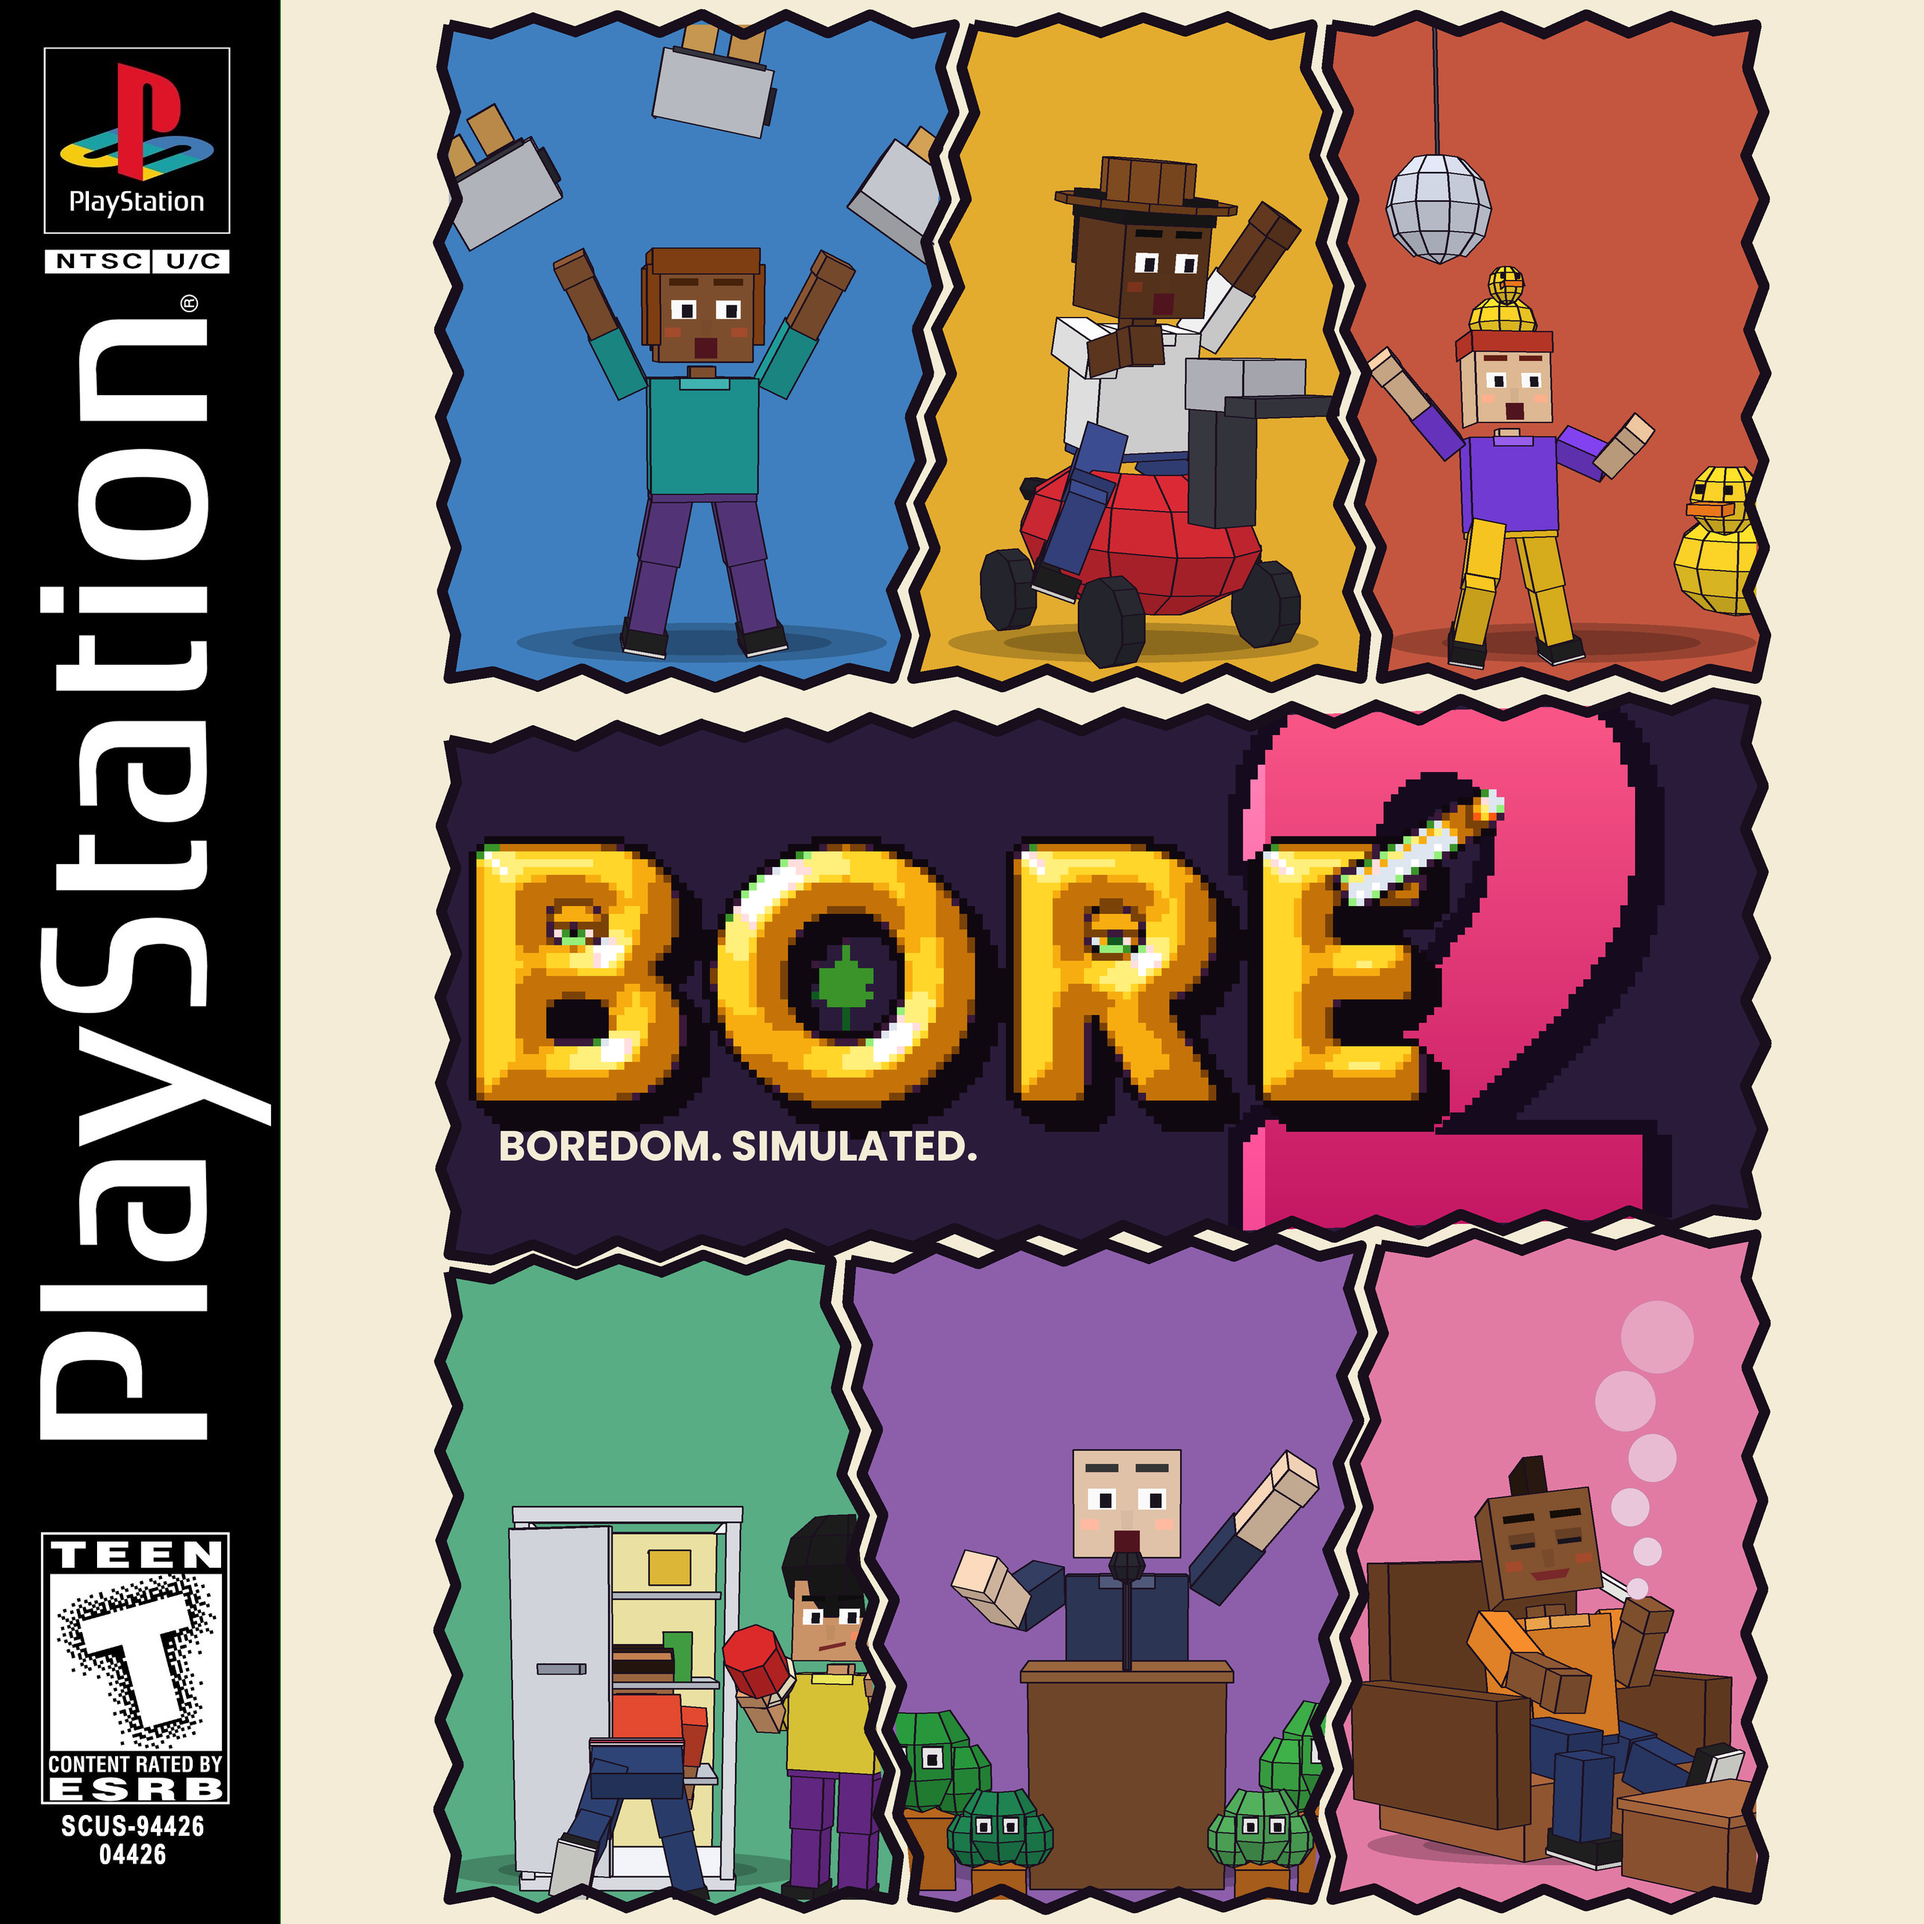
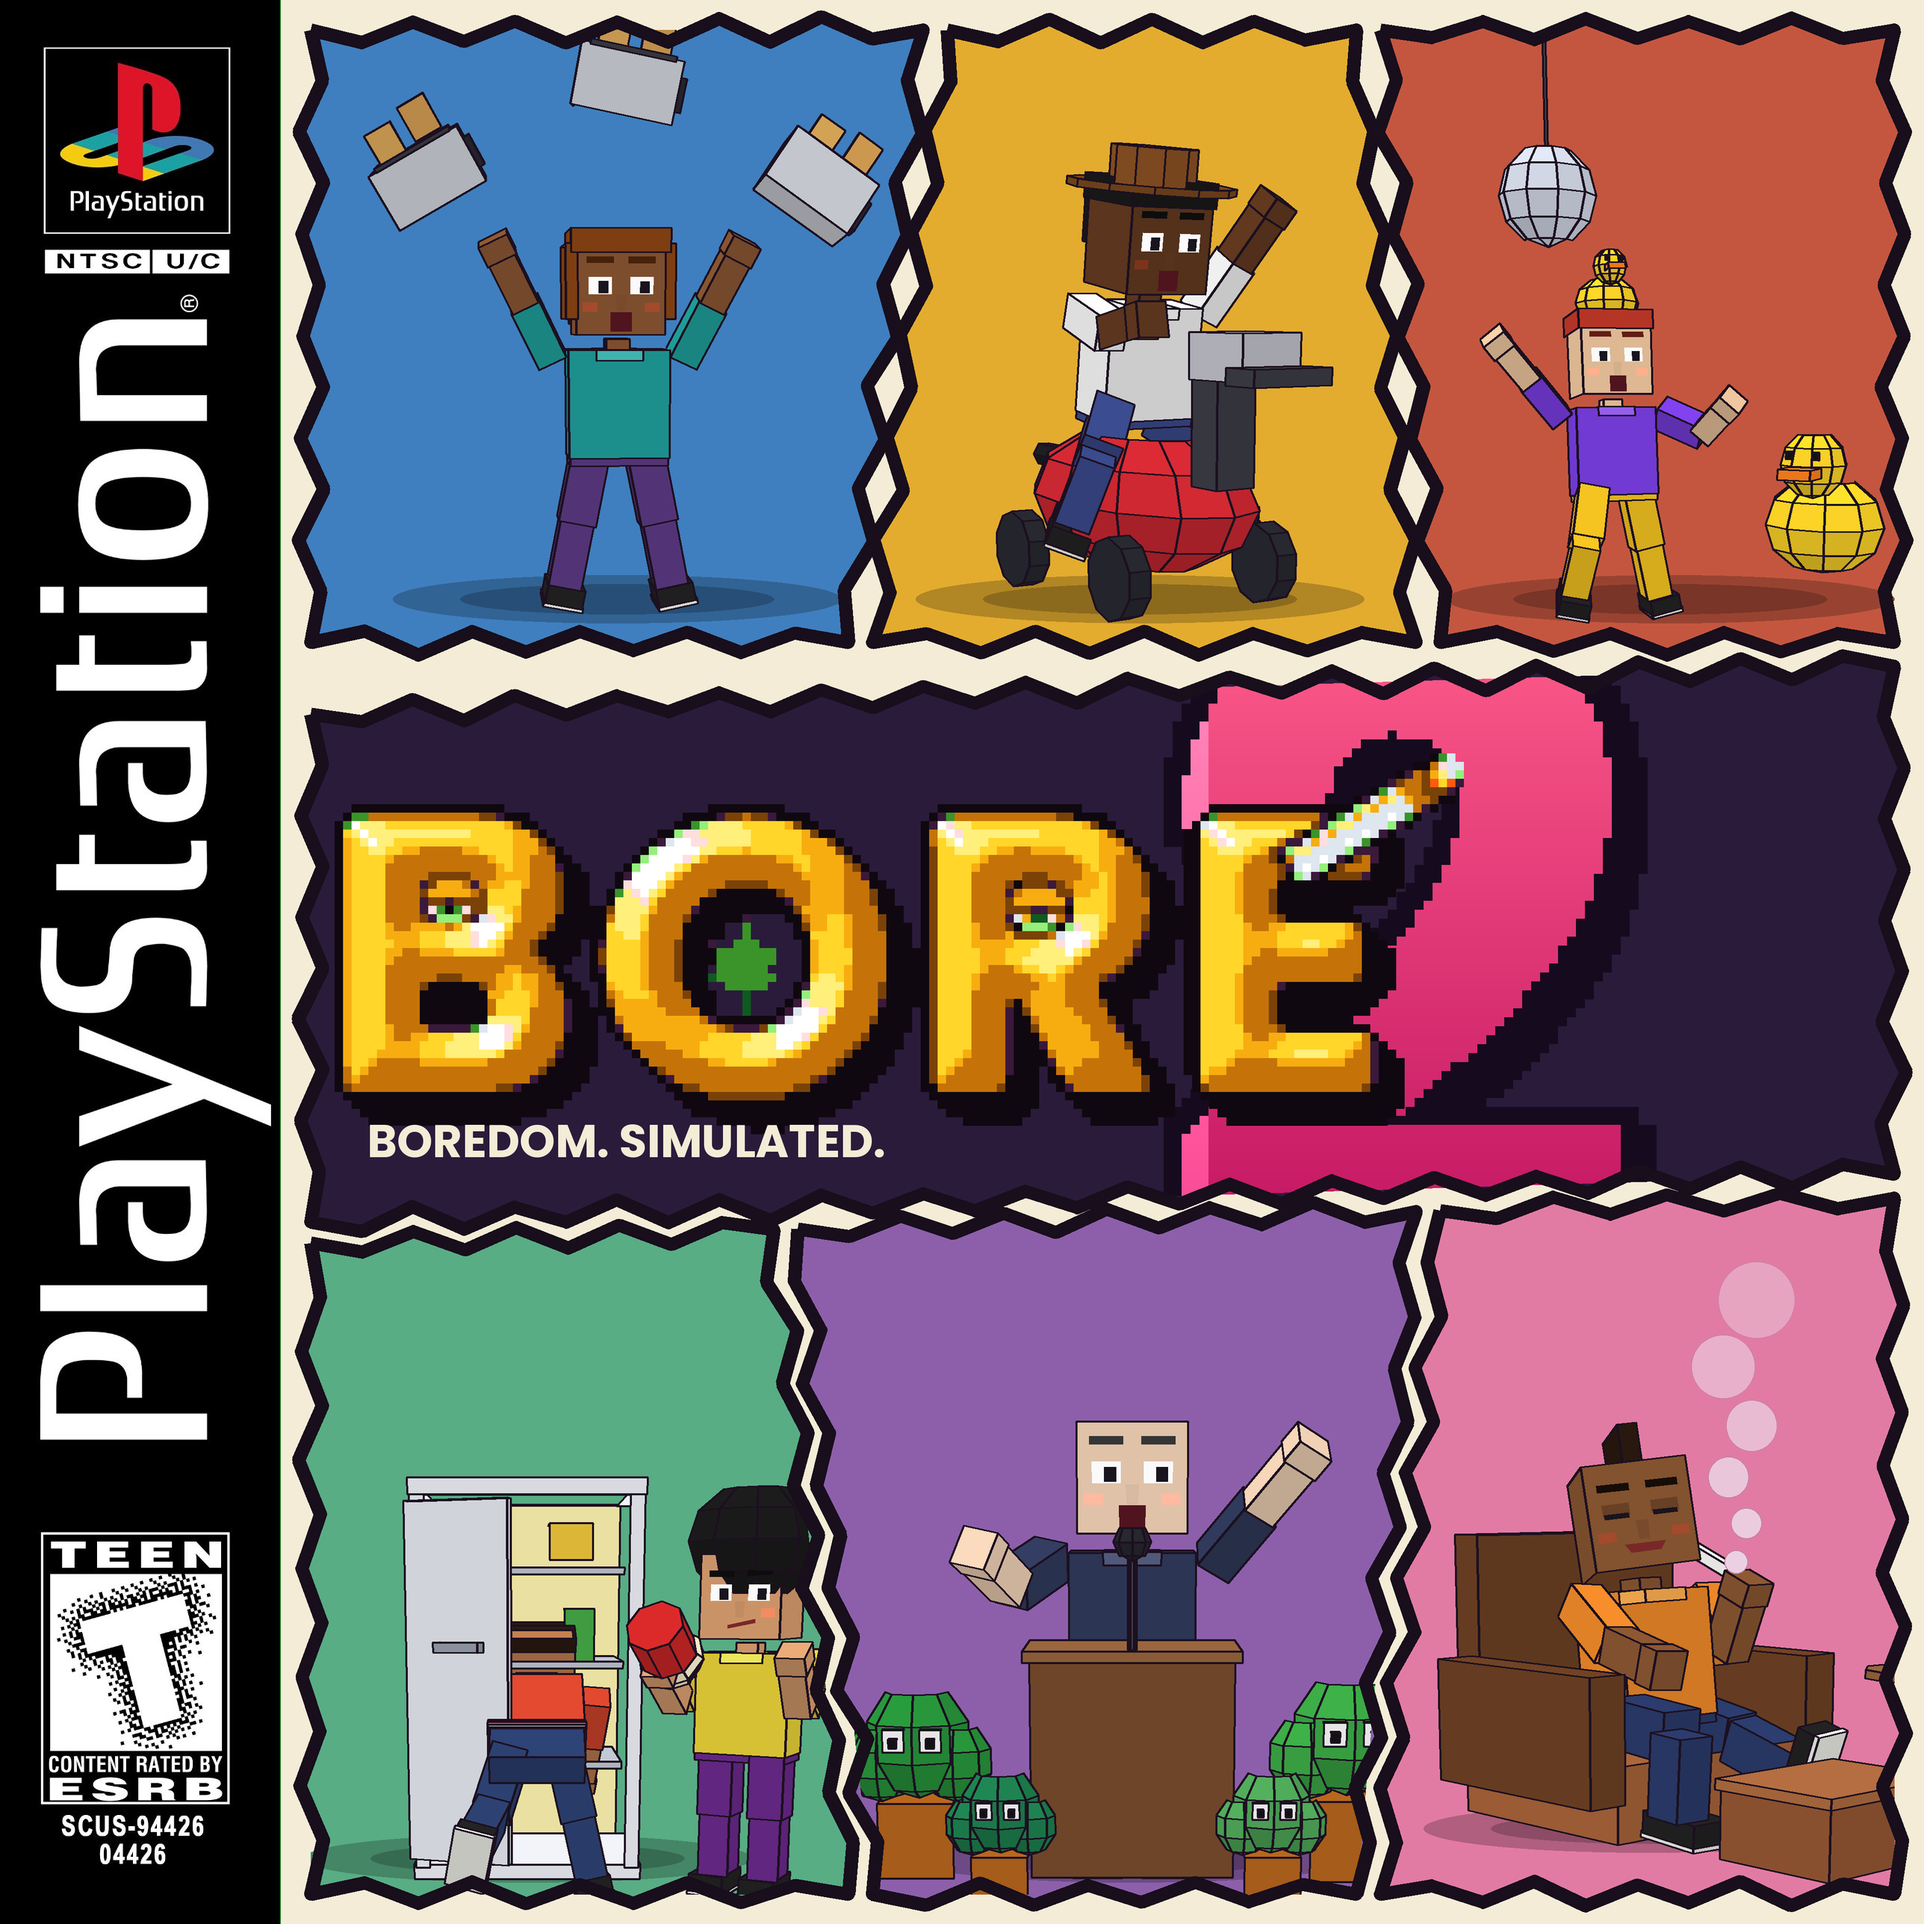
Covers: full-bleed PS1 and DSiWare layouts
Claude-Session: https://claude.ai/code/session_01HmRg38Ho1eHKsYp7LCd8R6

diff --git a/tools/boxart/gen.py b/tools/boxart/gen.py
@@ -1,0 +1,42 @@
+import re,sys
+src=open('poster.py').read()
+def variant(name,W,H,P,scenes,smoke,G,DX,DY,OUT):
+    s=src
+    s=s.replace("SS=3; W,H=1100,1560",f"SS=3; W,H={W},{H}; G={G}; DX={DX}; DY={DY}")
+    s=re.sub(r"\nP=\{.*?\n\}\n","\nP="+repr(P)+"\n",s,flags=re.S)
+    s=re.sub(r"scenes=\[.*?\]\n(?=def inset)","scenes="+re.sub(r"'(toasters|vacuum|duck|fridge|speech|smoking)'",r"\1",repr(scenes))+"\n",s,flags=re.S)
+    s=re.sub(r"SMOKE=\[.*?\]\n","SMOKE="+repr(smoke)+"\n",s)
+    s=s.replace("ttf',108)","ttf',int(108*G))")
+    s=s.replace("gx,gy=int(700/U),int(585/U)","gx,gy=int((36+(700-36)*G+DX)/U),int((782+(585-782)*G+DY)/U)")
+    s=s.replace("tx=int(640); ty=int(770-twoW.height/2)","tx=int(36+(640-36)*G+DX); ty=int(782+(770-782)*G+DY-twoW.height/2)")
+    s=s.replace("lw=840;","lw=int(840*G);")
+    s=s.replace("(int(36*SS),int((782-lh/2)*SS))","(int((36+DX)*SS),int((782+DY-lh/2)*SS))")
+    s=s.replace("d.text((60*SS,905*SS),","d.text(((36+(60-36)*G+DX)*SS,(782+(905-782)*G+DY)*SS),")
+    s=s.replace("ttf',34*SS)","ttf',int(34*G*SS))")
+    s=s.replace("im=im.resize((W*2,H*2),Image.LANCZOS)",f"im=im.resize({OUT},Image.LANCZOS)")
+    s=s.replace("/tmp/art/stage1.png",f"/tmp/art/{name}.png")
+    open(f'/tmp/art/{name}.py','w').write(s)
+def sm(f,ox,oy):
+    return [(915+(x-915)*f+(ox-915),oy+(y-1500)*f,r*f,a) for x,y,r,a in [(984,1288,9,200),(992,1258,12,190),(978,1222,16,175),(996,1182,20,150),(974,1136,25,125),(1000,1084,30,95)]]
+# PS1
+def top2(x): return 832-30*(x-20)/1060
+P={'p1':[(20,20),(430,20),(380,430),(20,430)],'p2':[(446,20),(720,20),(760,430),(396,430)],'p3':[(736,20),(1080,20),(1080,430),(776,430)],
+ 'logo':[(20,478),(1080,446),(1080,786),(20,818)],
+ 'q1':[(20,top2(20)),(330,top2(330)),(380,1268),(20,1268)],'q2':[(346,top2(346)),(760,top2(760)),(720,1268),(396,1268)],'q3':[(776,top2(776)),(1080,top2(1080)),(1080,1268),(736,1268)]}
+sc=[('p1','toasters',(225,405,65)),('p2','vacuum',(575,405,68)),('p3','duck',(930,405,52)),('q1','fridge',(165,1248,57)),('q2','speech',(570,1248,84)),('q3','smoking',(915,1228,79))]
+variant('ps1',1100,1288,P,sc,sm(0.86,915,1228),0.9,0,-150,"(2200,2576)")
+# DSi
+W,H=1431,1007
+bx=[20,483,946,1411]
+def row(y0,y1,sl,names):
+    out={}
+    for i,n in enumerate(names):
+        a=bx[i]+(0 if i==0 else 8); b=bx[i+1]-(0 if i==2 else 8)
+        la=sl if i>0 else 0; rb=sl if i<2 else 0
+        out[n]=[(a+la,y0),(b+rb,y0),(b-rb,y1),(a-la,y1)]
+    return out
+P={'logo':[(20,40),(1411,20),(1411,265),(20,285)]}
+P.update(row(305,635,18,['p1','p2','p3'])); P.update(row(655,987,-18,['q1','q2','q3']))
+cx=[(a+b)//2 for a,b in zip(bx,bx[1:])]
+sc=[('p1','toasters',(cx[0],615,50)),('p2','vacuum',(cx[1],615,62)),('p3','duck',(cx[2],615,52)),('q1','fridge',(cx[0],967,57)),('q2','speech',(cx[1],967,78)),('q3','smoking',(cx[2],950,66))]
+variant('dsi',W,H,P,sc,sm(66/92,cx[2],950),0.72,332,-625,"(1431,1007)")
